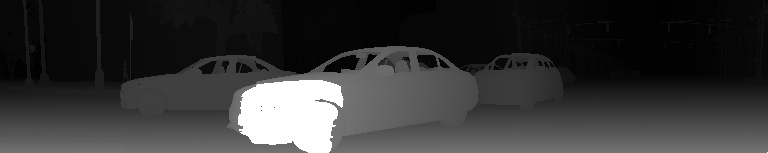
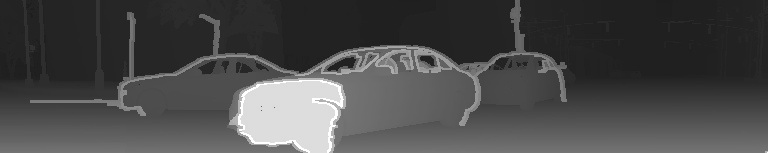
canny edge detection for depth planner images outlines objects w/ distinct edges in white, which is good since imminent collision objects are also in white

diff --git a/airsim_env.py b/airsim_env.py
@@ -24,7 +24,7 @@ https://github.com/openai/gym/blob/master/gym/envs/classic_control/cartpole.py
       "Height": 256,
       "FOV_Degrees": 45
     }]
-  }           
+  }
 }
 
 """
@@ -37,7 +37,7 @@ import os
 import cv2
 import math
 import queue
-import time # just to check steps per second 
+import time # just to check steps per second
 
 
 class AirSimEnv(Env):
@@ -61,15 +61,15 @@ class AirSimEnv(Env):
     """
     # 1st 2 must reflect settings.json
     self.SCENE_INPUT_SHAPE = (256, 256*3, 1)  # 1.0 / 0.4
-    self.DEPTH_PLANNER_INPUT_SHAPE = (256, 256*3, 1)  # 1.0 / 0.25 
+    self.DEPTH_PLANNER_INPUT_SHAPE = (256, 256*3, 1)  # 1.0 / 0.25
     self.SENSOR_INPUT_SHAPE = (17,1)
 
 
-    
+
     # sim admin stuff
     self.seconds_pause_between_steps = seconds_pause_between_steps
     self.seconds_between_collision_in_sim_and_register = seconds_between_collision_in_sim_and_register
-    
+
     # image stuff
     if lambda_function_to_apply_to_depth_pixels is None:  # PHI from DQN algorithm
       self.PHI = None  # PHI from DQN algorithm
@@ -86,7 +86,7 @@ class AirSimEnv(Env):
     #print('frac bottom depth', fraction_of_bottom_of_depth_to_drop)  # debug
     #print('1st row idx scene', self.first_scene_row_idx)  # debug
     #print('last row idx depth', self.last_depth_planner_row_idx)   # debug
-    
+
     assert self.first_scene_row_idx < self.last_scene_row_idx
     assert self.first_depth_planner_row_idx < self.last_depth_planner_row_idx
 
@@ -96,7 +96,7 @@ class AirSimEnv(Env):
     self.DEPTH_PLANNER_INPUT_SHAPE = (self.last_depth_planner_row_idx-self.first_depth_planner_row_idx, self.DEPTH_PLANNER_INPUT_SHAPE[1], 1)
     self.SENSOR_INPUT_SHAPE = self.SENSOR_INPUT_SHAPE
 
-    
+
     # steering stuff
     self.action_space = spaces.Discrete(num_steering_angles)
     self.action_space_steering = np.linspace(-1.0, 1.0, num_steering_angles).tolist()
@@ -113,21 +113,23 @@ class AirSimEnv(Env):
     # collision info for emergency resets and reward func calc
     self.collisions_in_a_row = 0
     self.max_acceptable_collisions_in_a_row = 3 # note: if stuck, then collisions will keep piling on
-    # also collisions being stuck can cause glitch through map 
-    
+    # also collisions being stuck can cause glitch through map
+
     self.obj_id_of_last_collision = -123456789  # anything <-1 is unassociated w/ an obj in sim (afaik)
 
     # connect to the client; we're ready to connect to set up our cameras
     self.client = airsim.CarClient()
     self.client.confirmConnection()
     self.client.enableApiControl(True)
-    
+
     self.left_cam_name = '2'
     self.right_cam_name = '1'
     self.forward_cam_name = '0'
     self.backward_cam_name = '4'
 
     self._setup_my_cameras()
+
+    self.depth_planner_dilation_kernel = np.ones((3,5),np.uint8) * 255
 
     # requests also returned in this order; order by how concatentate img, from L to R
     self.list_of_img_request_objects = [airsim.ImageRequest(camera_name=self.left_cam_name,
@@ -280,14 +282,14 @@ class AirSimEnv(Env):
     if self.episode_step_count % 30 == 0:
       print('Ep step {}, averaging {} steps per IRL sec'.format(self.episode_step_count,
                                                                                   (self.episode_step_count / (time.time() -self.episode_time_in_irl_seconds))))
-      
+
     # check if made it to w/in the radius of the destination area/circle
     if self._arrived_at_destination(car_info):
       done = True
       reward = 1.0
-      
+
     return state_t2, reward_t, done, {}
-  
+
 
   def reset(self):
     """
@@ -306,7 +308,7 @@ class AirSimEnv(Env):
     self.collisions_in_a_row = 0
     self.obj_id_of_last_collision = -123456789 # any int < -1 is ok
 
-    self.episode_time_in_simulation_secs = 0.1  # avoid div by 0 err when call _make_state @ fin 
+    self.episode_time_in_simulation_secs = 0.1  # avoid div by 0 err when call _make_state @ fin
 
     self.client.simPause(False)
     self.client.reset()
@@ -314,18 +316,18 @@ class AirSimEnv(Env):
 
     self.client.simSetVehiclePose(pose=self.beginning_coords,
                                            ignore_collison=True)
-    
+
     self.episode_time_in_irl_seconds = time.time()  # again, for debug purposes
     self.current_distance_from_destination = self.total_distance_to_destination
     self.episode_time_in_simulation_secs = 1.0
-    
+
     time.sleep(4)  # crash issue with requesting stuff before actually capable of resettting? idk
-    
+
     list_of_img_response_objects = self._request_sim_images()
     car_info = self.client.getCarState()
 
     # initial state for this new episode
-    return self._make_state(car_info, list_of_img_response_objects)  
+    return self._make_state(car_info, list_of_img_response_objects)
 
 
   def render(self, mode='human'):
@@ -352,7 +354,7 @@ class AirSimEnv(Env):
 
     # id -1 if unnamed obj; not imply not colliding, just unnamed
     # if collided with something with a name
-    sec_since_last_collision = time.time() -  collision_info.time_stamp*10**(-9) 
+    sec_since_last_collision = time.time() -  collision_info.time_stamp*10**(-9)
     if sec_since_last_collision < self.seconds_between_collision_in_sim_and_register and collision_info.time_stamp != 0.0:  # irl seconds
       self.distance_since_last_collision = 0.0
       reward = -1.0
@@ -362,7 +364,7 @@ class AirSimEnv(Env):
          (abs(car_info.kinematics_estimated.orientation.x_val) > 0.035 or abs(car_info.kinematics_estimated.orientation.y_val) > 0.035):   # check if hit curb (car x and y orientation changes)
       self.distance_since_last_collision = 0.0
       reward = -0.05
-     
+
     # if have made very little progress towards goal so far -- note, get about 3 to 4 steps per IRL sec on school computer
     elif (self.total_distance_to_destination - self.current_distance_from_destination) <  50.0 and self.episode_step_count > 100:
       reward = -1.0
@@ -395,7 +397,7 @@ class AirSimEnv(Env):
       # time = distance / rate --- time to get from origin to end, at the average pace of the vehicle
       current_estimate_of_sim_secs_from_beginning_get_to_destination = self.total_distance_to_destination / current_average_meters_per_sim_secs
 
-      # will go negative 
+      # will go negative
       sim_secs_remaining_to_get_to_destination = current_estimate_of_sim_secs_from_beginning_get_to_destination - self.episode_time_in_simulation_secs
 
       # will always be <= 0
@@ -406,7 +408,7 @@ class AirSimEnv(Env):
 
       #reward = time_reward + distance_reward
       reward = max(0, distance_reward - 0.05)  # don't reward until get sufficiently far out - should help avoid driving in circles
-      
+
     # for debug
     print('reward', reward)
     return reward
@@ -432,7 +434,7 @@ class AirSimEnv(Env):
 
   def _extract_sensor_data(self, car_info):
     """
-    Returns a list w/ 17 entries: 
+    Returns a list w/ 17 entries:
 
     1-2. GPS (x, y) coordinates of car
     3. manhattan distance from end point (x, y)
@@ -450,7 +452,7 @@ class AirSimEnv(Env):
     Note: no z coords because city is almost entirely flat
     """
     sensor_data = np.empty(0)
-    
+
     # 1-2 car's gps x and y coords
     sensor_data =np.append(sensor_data, car_info.kinematics_estimated.position.x_val)
     sensor_data =np.append(sensor_data, car_info.kinematics_estimated.position.y_val)
@@ -461,7 +463,7 @@ class AirSimEnv(Env):
     # 4 yaw, which is relative to the world frame, so can translatie invariant?
     yaw = airsim.to_eularian_angles(car_info.kinematics_estimated.orientation)[2]  # (pitch, roll, yaw)
     sensor_data =np.append(sensor_data, yaw)
-      
+
     # 5 relative bearing
     bearing = self._relative_bearing(yaw, (car_info.kinematics_estimated.position.x_val, car_info.kinematics_estimated.position.y_val),
                                                             (self.ending_coords.x_val, self.ending_coords.y_val))
@@ -475,7 +477,7 @@ class AirSimEnv(Env):
     sensor_data =np.append(sensor_data, car_info.kinematics_estimated.angular_velocity.x_val)
     sensor_data =np.append(sensor_data, car_info.kinematics_estimated.angular_velocity.y_val)
 
-    # 9 
+    # 9
     sensor_data =np.append(sensor_data, car_info.kinematics_estimated.linear_acceleration.x_val)
     sensor_data =np.append(sensor_data, car_info.kinematics_estimated.linear_acceleration.y_val)
 
@@ -497,25 +499,25 @@ class AirSimEnv(Env):
     #print('sensor data shape', sensor_data.shape)  # for debug
     return np.array(sensor_data).reshape(sensor_data.shape[0], 1)
 
- 
+
   def _extract_scene_image(self, sim_img_response_list):
     scene_img_responses = []
     for idx in range(0, len(sim_img_response_list)):
       if sim_img_response_list[idx].image_type == airsim.ImageType.Scene:
-        
+
         scene_img_responses.append(sim_img_response_list[idx])
-      
+
     # originally, the image is in 3 1D python lists; want to turn them into a 2D numpy arrays
     img = np.concatenate([np.fromstring(img_response_obj.image_data_uint8,
                                         dtype=np.uint8).reshape(img_response_obj.height,
                                                                 img_response_obj.width,
                                                                 4) for img_response_obj in scene_img_responses],
                          axis=1)
-    
+
     # chop off unwanted top and bottom of image (mostly deadspace or where too much white)
     img = img[self.first_scene_row_idx : self.last_scene_row_idx]
-    
-    
+
+
     # make grayscale since not need faster training more so than colors for now
     img = cv2.cvtColor(img, cv2.COLOR_RGB2GRAY)  # not instant to do, but should help training
 
@@ -523,25 +525,25 @@ class AirSimEnv(Env):
 
     # for debugging and getting cameras correct
     #cv2.imwrite('scene_{}.jpg'.format(time.time()), img)
-    
+
     return img.reshape(img.shape[0], img.shape[1], 1)
-      
+
 
   def _extract_depth_planner_image(self, sim_img_response_list):
     """
     Extract depth planner img from response obj in ^ and apply self.PHI to a depth planner image.
-    
+
     :param sim...: list of image responses w/ 1 ImageResponse object for depth_planner
     that has its data that can be reshaped into a 2D (i.e., 1 channel) array / an image
-    
+
     :returns: 2D numpy array of float32; preprocessed depth planner image
     """
     depth_planner_img_responses = []
     for idx in range(0, len(sim_img_response_list)):
-      if sim_img_response_list[idx].image_type == airsim.ImageType.DepthPlanner: 
-        
+      if sim_img_response_list[idx].image_type == airsim.ImageType.DepthPlanner:
+
         depth_planner_img_responses.append(sim_img_response_list[idx])
-      
+
     # originally, the image is in 3 1D python lists of strings; want to turn them into a 2D numpy arrays
     img = np.concatenate([airsim.list_to_2d_float_array(depth_planner_img_response_obj.image_data_float,
                                                         depth_planner_img_response_obj.width,
@@ -557,7 +559,18 @@ class AirSimEnv(Env):
     # note: could leave as 1d array cutoff frac_top_to_drop*height first many cols and then do multiprocessing?
     if self.PHI is not None:   # could leave a None and just skip this part (might be good idea since NN not care if look nice?)
       img = self.PHI(img) # PHI was vectorized in __init__, so this applies PHI to each pixel in
-      # image approximately 10x faster than 2-nested for-loops of applying PHI 
+      # image approximately 10x faster than 2-nested for-loops of applying PHI
+
+    # canny edge detection - draws white-ish outlines on objects w/ distinct edges
+    # surprisingly fast - averages about 0.000579 seconds
+    img = np.array(img, np.uint8)
+    canny_edges = cv2.Canny(img, 15, 400)  # np.array, min, max intensity gradient
+
+    # dilate - stretch out the areas w/ white pixels (edges in canny_edges)
+    dilated_canny_edges = cv2.dilate(canny_edges, self.depth_planner_dilation_kernel, iterations = 1)
+
+    # overlay the dilated edges on the depth planner image (draw object outlines)
+    img = cv2.addWeighted(img, 0.75, dilated_canny_edges, 0.25, 30.0)
 
     # for debugging and getting cameras correct
     #cv2.imwrite('depthPlanner_{}.jpg'.format(time.time()), img)
@@ -579,7 +592,7 @@ class AirSimEnv(Env):
     """
     if scene == True and depth_planner == True:
       return self.client.simGetImages(self.list_of_img_request_objects)
-    
+
     else:
       print('ERROR: must request both scene and depth planner; no support for otherwise')
       return None
@@ -597,7 +610,7 @@ class AirSimEnv(Env):
     right_cam_orientation = airsim.to_quaternion(pitch=-0.17, yaw=0.775, roll=0.0)
     backward_cam_orientation = airsim.to_quaternion(pitch=-0.17, yaw=0.0, roll=0.0)
 
-    
+
     # creates a panoram-ish camera set-up
     self.client.simSetCameraOrientation(self.left_cam_name, left_cam_orientation)
     self.client.simSetCameraOrientation(self.right_cam_name, right_cam_orientation)
@@ -624,7 +637,7 @@ class AirSimEnv(Env):
                                                                             self.ending_coords.x_val,
                                                                             car_info.kinematics_estimated.position.y_val,
                                                                             self.ending_coords.y_val)
-                                                         
+
     if current_distance_from_destination < self.ending_circle_radius:
       return True
     else:
@@ -649,9 +662,9 @@ class AirSimEnv(Env):
     :param _position: (x, y, z) airsim.Vector
     """
     car_to_dest_vector = (destination_position[0] - car_position[0], destination_position[1] - car_position[1])
-  
+
     # calculate vector from angle and magnitude
-  
+
     # if car yaw is negative in [-pi, 0]; convert to a positive angle [pi, 2pi]
     if car_yaw < 0:
       car_yaw = 2.0 * math.pi + car_yaw
@@ -670,7 +683,7 @@ class AirSimEnv(Env):
     # let u = car_heading_vector and let v = car_to_dest_vector
     u_dot_v = (car_heading_vector[0] * car_to_dest_vector[0]) + \
                   (car_heading_vector[1] * car_to_dest_vector[1])
-  
+
     # only need below if have non1 |v|
     #magnitude_of_u = math.sqrt(car_heading_vector[0]**2 + car_heading_vector[1]**2)  # since |v| = 1.0
     magnitude_of_u = 1.0
@@ -704,5 +717,3 @@ class AirSimEnv(Env):
     # else do nothing since relative_bearing is already >= 0
 
     return relative_bearing
-
-    
